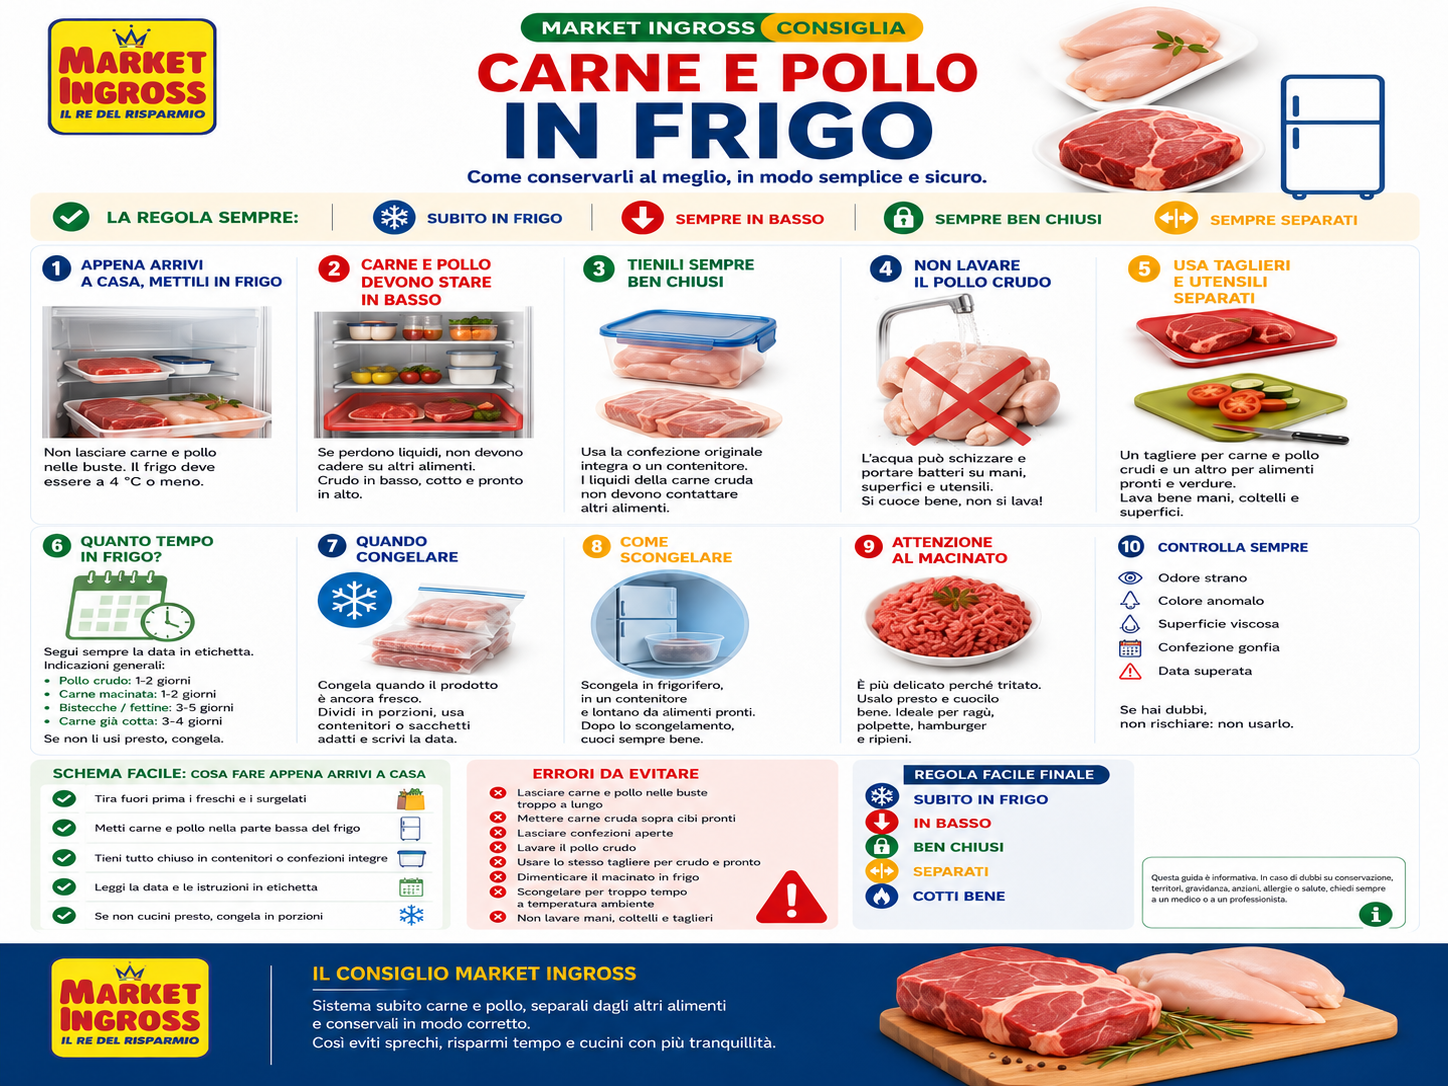
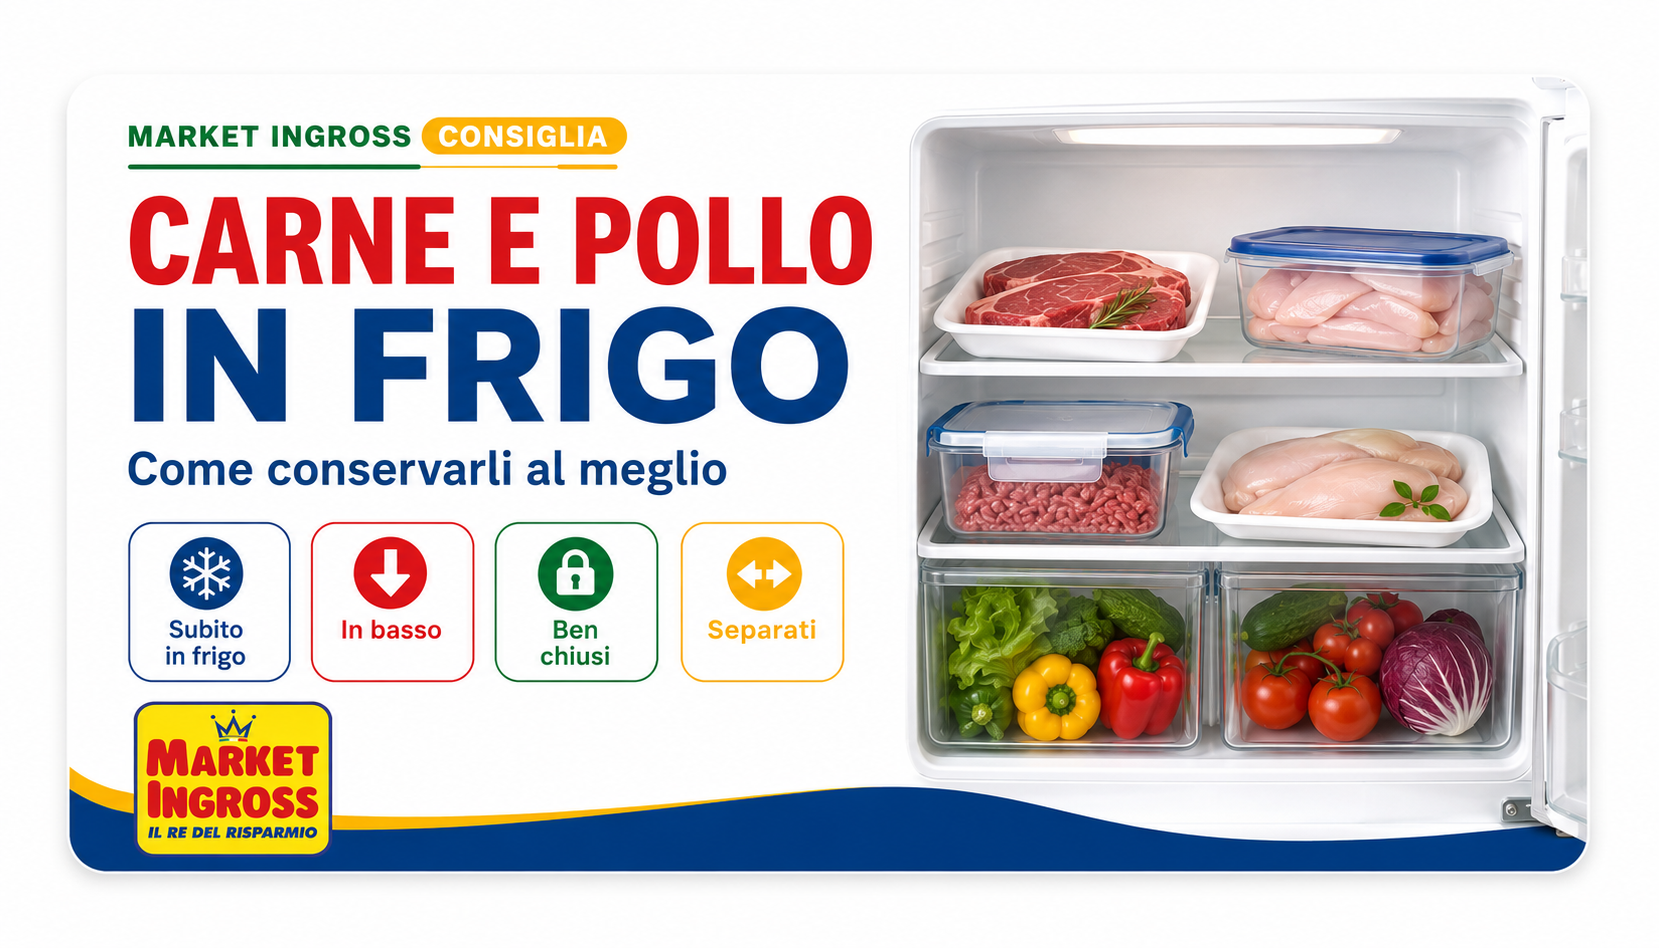
Completa aggancio asset per cubbaita e guida carne/pollo

diff --git a/app/informazioni-utili/come-conservare-carne-pollo-in-frigo/page.tsx b/app/informazioni-utili/come-conservare-carne-pollo-in-frigo/page.tsx
@@ -1,4 +1,5 @@
 import { Metadata } from "next";
+import Image from "next/image";
 import Link from "next/link";
 import { SiteHeader } from "@/components/layout/site-header";
 import { SiteFooter } from "@/components/layout/site-footer";
@@ -354,8 +355,17 @@ export default function ComeConservareCarnePolloPage() {
                   Guida illustrativa
                 </h2>
                 <p className="mt-3 text-base leading-8 text-slate-700">
-                  La guida illustrativa "Carne e pollo in frigo" sara collegata qui appena disponibile.
+                  Una versione visuale della guida, utile da consultare rapidamente anche da smartphone.
                 </p>
+                <div className="mt-5 overflow-hidden rounded-2xl border border-slate-200 bg-white p-2">
+                  <Image
+                    src="/images/news/consigli-per-la-spesa/guida illustrativa/carne-pollo-frigo.png"
+                    alt="Guida illustrativa Carne e pollo in frigo"
+                    width={1600}
+                    height={2200}
+                    className="h-auto w-full rounded-xl"
+                  />
+                </div>
                 <div className="mt-8 rounded-2xl border border-slate-200 bg-white p-4">
                   <h3 className="font-heading mb-4 text-xl font-extrabold text-[#0B3B82]">Video guida (reel)</h3>
                   <p className="text-base leading-8 text-slate-700">

diff --git a/app/news/cubbaita-giuggiulena/page.tsx b/app/news/cubbaita-giuggiulena/page.tsx
@@ -1,4 +1,5 @@
 import { Metadata } from "next";
+import Image from "next/image";
 import Link from "next/link";
 import { SiteHeader } from "@/components/layout/site-header";
 import { SiteFooter } from "@/components/layout/site-footer";
@@ -156,8 +157,17 @@ export default function CubbaitaGiuggiulenaPage() {
                   Guida illustrativa
                 </h2>
                 <p className="mt-3 text-base leading-8 text-slate-700">
-                  La guida illustrativa della Cubbaita / Giuggiulena sara collegata qui appena disponibile.
+                  Una versione visuale della ricetta, utile da consultare rapidamente anche da smartphone.
                 </p>
+                <div className="mt-5 overflow-hidden rounded-2xl border border-slate-200 bg-white p-2">
+                  <Image
+                    src="/images/news/ricette/guida illustrativa/cubbaita.png"
+                    alt="Guida illustrativa Cubbaita di Ispica"
+                    width={1600}
+                    height={2200}
+                    className="h-auto w-full rounded-xl"
+                  />
+                </div>
                 <div className="mt-8 rounded-2xl border border-slate-200 bg-white p-4">
                   <h3 className="font-heading mb-4 text-xl font-extrabold text-[#0B3B82]">Video guida (reel)</h3>
                   <p className="text-base leading-8 text-slate-700">

diff --git a/data/news.ts b/data/news.ts
@@ -22,9 +22,10 @@ export const newsItems: NewsItem[] = [
     text: "Dolce tradizionale siciliano a base di sesamo, miele, zucchero e mandorle, croccante e profumato.",
     href: "/news/cubbaita-giuggiulena",
     videoId: null,
+    cardImage: "/images/news/ricette/card/cubbaita-card.png",
     location: "Sapori di Casa Market Ingross",
     date: "2026-05-21",
-    guideIllustration: null,
+    guideIllustration: "/images/news/ricette/guida illustrativa/cubbaita.png",
     flyerPdf: null,
   },
   {
@@ -34,10 +35,10 @@ export const newsItems: NewsItem[] = [
     text: "Guida semplice per conservare carne e pollo in modo piu sicuro: dove metterli, come separarli, quando congelarli e quali errori evitare.",
     href: "/informazioni-utili/come-conservare-carne-pollo-in-frigo",
     videoId: null,
-    cardImage: "/images/news/consigli-per-la-spesa/card/tagli-carne-card.png",
+    cardImage: "/images/news/consigli-per-la-spesa/card/carne-pollo-frigo-card.png",
     location: "Market Ingross Consiglia",
     date: "2026-05-21",
-    guideIllustration: null,
+    guideIllustration: "/images/news/consigli-per-la-spesa/guida illustrativa/carne-pollo-frigo.png",
     flyerPdf: null,
   },
   {
